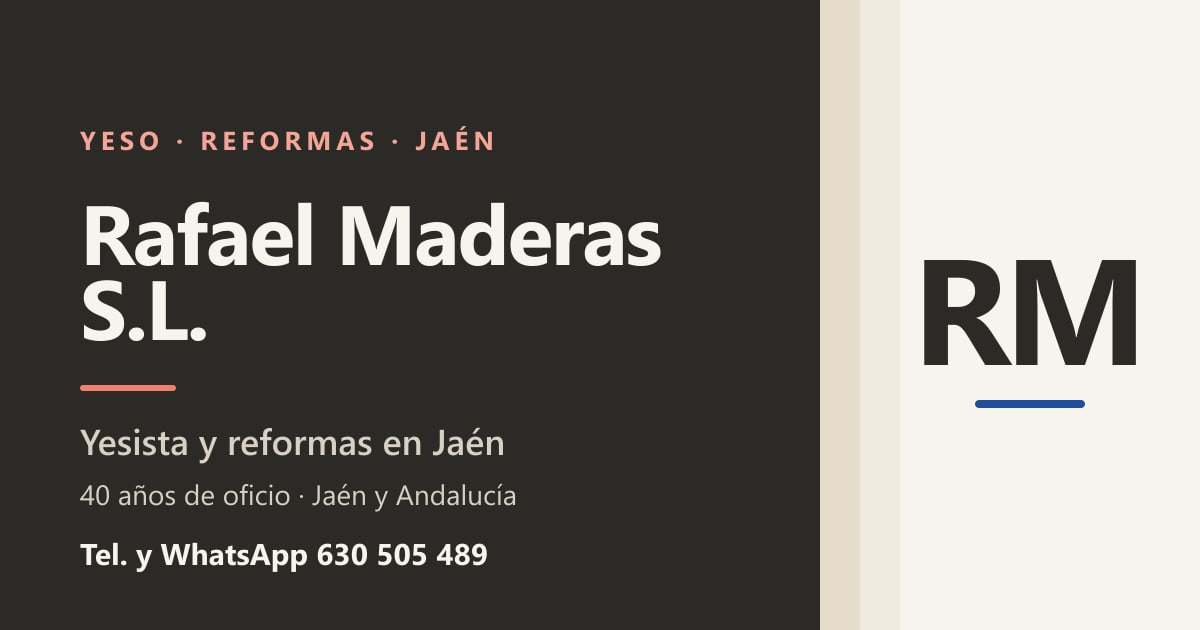
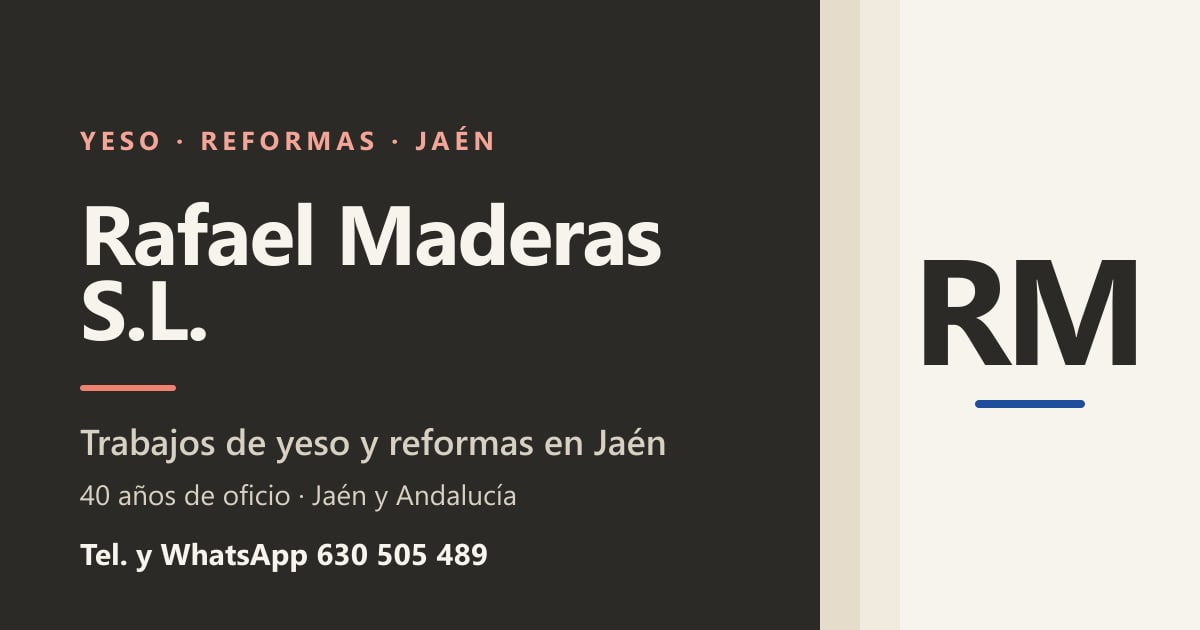
Título principal: «Trabajos de yeso y reformas en Jaén»
- H1 de portada con estructura paralela (actividad + actividad) en lugar de
  «Yesista y reformas», que mezclaba persona y actividad. «Jaén» sigue resaltado.
- Misma corrección en el H2 de Zonas, la descripción de Contacto, el eslogan
  (imagen para redes regenerada), el README y las ayudas del gestor.
- Las palabras de una letra (y, o, a…) se unen a la siguiente con espacio duro
  en los títulos resaltados, también en la vista previa del gestor.
- En tableta el H1 se ajusta al ancho de su columna (container query) para
  quedarse en dos líneas: «Trabajos de yeso / y reformas en Jaén».
- Se mantiene el <title> «Yesista y Reformas en Jaén | …» por SEO.

Changed region(s): [[0.0617, 0.6635, 0.555, 0.7238]]

diff --git a/src/_lib/text.js b/src/_lib/text.js
@@ -91,12 +91,17 @@ export function plainText(value, site) {
 const escapeHtml = (value) =>
   String(value).replace(/&/g, "&amp;").replace(/</g, "&lt;").replace(/>/g, "&gt;").replace(/"/g, "&quot;");
 
-/** Título con una palabra destacada entre asteriscos: «Yesista y reformas en *Jaén*». */
+/**
+ * Título con una palabra destacada entre asteriscos: «Trabajos de yeso y reformas en *Jaén*».
+ * Las palabras de una letra (y, o, a, e, u) se unen a la siguiente con un espacio duro para
+ * que no queden colgando al final de una línea.
+ */
 export function renderHighlight(value, site) {
-  return escapeHtml(applyTokens(value, site).trim()).replace(
-    /\*([^*]+)\*/g,
-    '<span class="highlight">$1</span>'
-  );
+  return escapeHtml(applyTokens(value, site).trim())
+    .replace(/\s+/g, (space, offset, whole) =>
+      /(?:^|\s)[aeouy]$/i.test(whole.slice(0, offset)) ? "&nbsp;" : space
+    )
+    .replace(/\*([^*]+)\*/g, '<span class="highlight">$1</span>');
 }
 
 export function slugify(value) {

diff --git a/src/assets/css/main.css b/src/assets/css/main.css
@@ -1112,6 +1112,18 @@ main:focus {
     margin-inline: 0;
   }
 
+  /* En tablet la columna de texto es estrecha: el título se ajusta a su ancho para quedarse
+     en dos líneas naturales («Trabajos de yeso / y reformas en Jaén») en vez de partirse en tres. */
+  @supports (container-type: inline-size) {
+    .hero__text {
+      container-type: inline-size;
+    }
+
+    .hero h1 {
+      font-size: min(var(--step-4), 11.25cqi);
+    }
+  }
+
   .hero__actions {
     flex-direction: row;
     align-items: center;

diff --git a/src/admin/cms.js b/src/admin/cms.js
@@ -69,7 +69,9 @@
       .join("");
 
   const highlight = (value) =>
-    escapeHtml(applyTokens(value).trim()).replace(/\*([^*]+)\*/g, '<span class="highlight">$1</span>');
+    escapeHtml(applyTokens(value).trim())
+      .replace(/\s+/g, (space, offset, whole) => (/(?:^|\s)[aeouy]$/i.test(whole.slice(0, offset)) ? "&nbsp;" : space))
+      .replace(/\*([^*]+)\*/g, '<span class="highlight">$1</span>');
 
   const plainParagraphs = (value) =>
     applyTokens(value)

diff --git a/README.md b/README.md
@@ -1,4 +1,4 @@
-# Web de Rafael Maderas S.L. · Yesista y reformas en Jaén
+# Web de Rafael Maderas S.L. · Trabajos de yeso y reformas en Jaén
 
 Web estática para **Rafael Maderas S.L.**: trabajos de yeso (actividad principal) y reformas con gremios coordinados en Jaén capital, la provincia de Jaén y el resto de Andalucía.
 
@@ -147,7 +147,7 @@ A la derecha de cada formulario hay una **vista previa** con el aspecto de la we
 
 Trucos para escribir:
 - **Comodines**: `{empresa}`, `{telefono}`, `{correo}`, `{años}`, `{fundacion}`, `{fundador}`, `{cargo}`, `{oficio}`, `{razon_social}` y `{cif}` se sustituyen solos por los datos de «Datos de la empresa». Si cambia el teléfono, cambia en toda la web.
-- **Palabra resaltada en color** en los títulos: escríbela entre asteriscos, por ejemplo `Yesista y reformas en *Jaén*`.
+- **Palabra resaltada en color** en los títulos: escríbela entre asteriscos, por ejemplo `Trabajos de yeso y reformas en *Jaén*`. En el título de portada, las palabras de una letra («y», «o», «a») se unen solas a la siguiente para que nunca queden sueltas al final de una línea, y en tableta el tamaño se ajusta al ancho de la columna.
 - **Negrita** en los textos largos: botón **B** del editor (o `**así**`).
 - En la portada, la **nota bajo los botones** («Sin compromiso…») es opcional, y cada tarjeta de «Por qué elegirnos» puede llevar una **duda del cliente** que aparece encima del título. Si se dejan vacías, no se muestran.
 - Los campos tienen ayudas y validaciones (longitud del título para Google, formato de teléfono, CIF, etc.). Si algo no es válido, el gestor no deja publicar y señala el campo.
